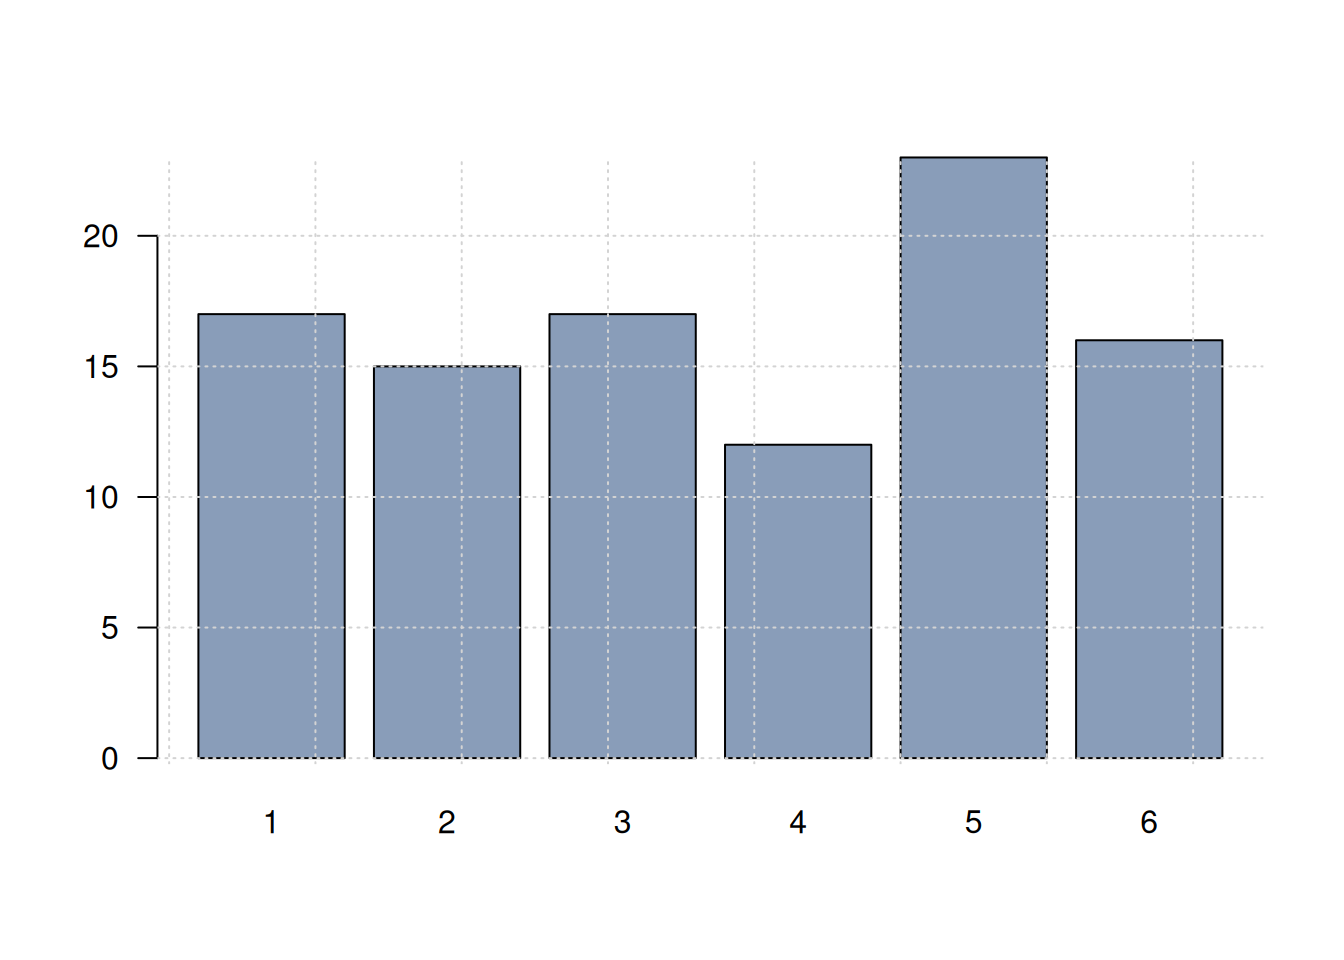
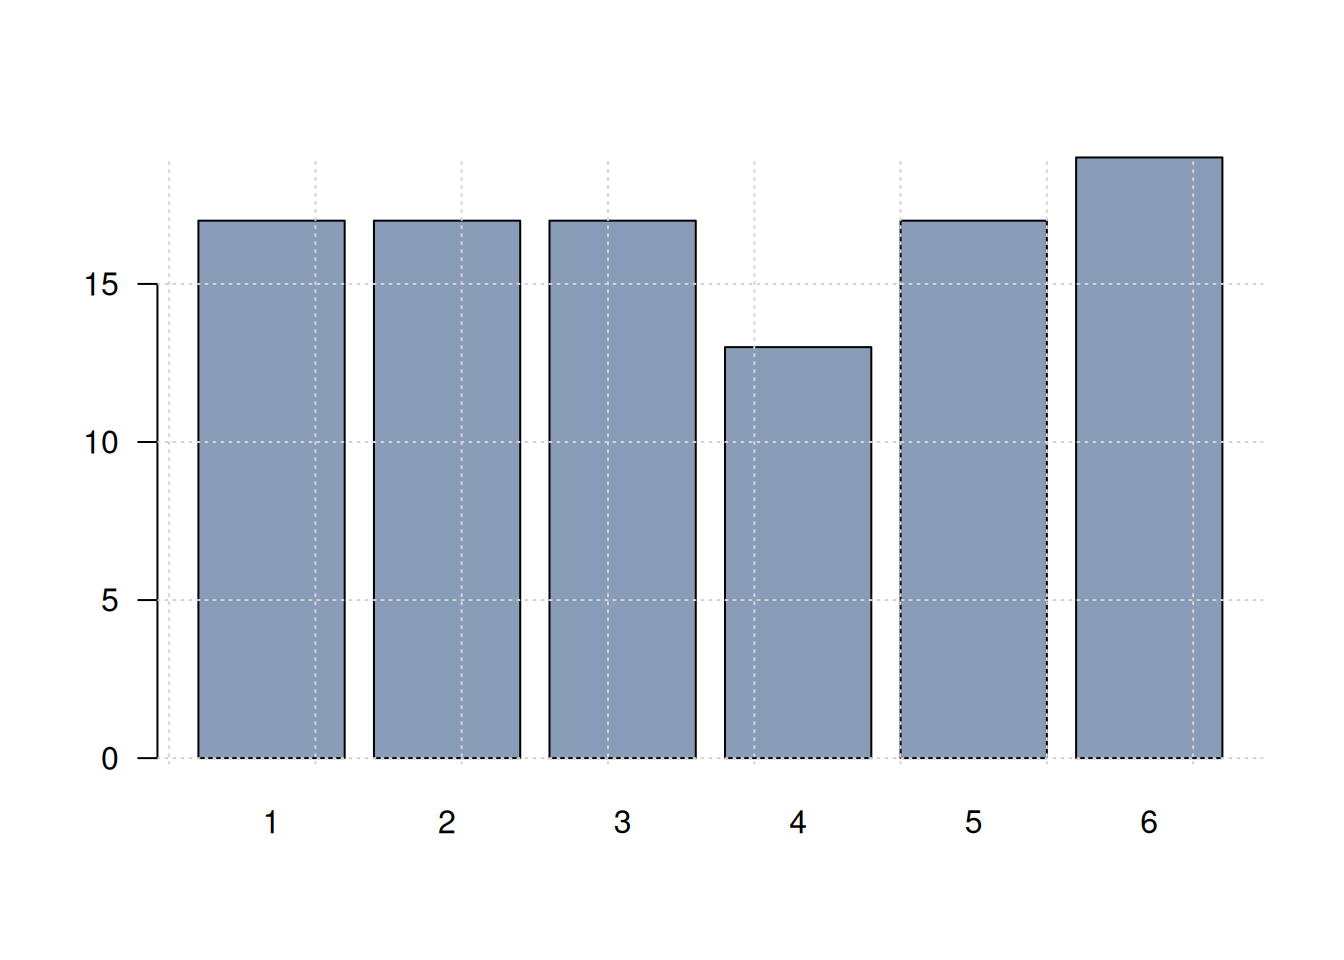
primera version 2

diff --git a/docs/basesdatos.html b/docs/basesdatos.html
@@ -481,8 +481,8 @@ Global Biodiversity Information Facility (GBIF)</a></p></li>
 <pre class="r"><code>data(iris)
 library(DT)
 DT::datatable(head(iris, 150),fillContainer = FALSE, options = list(pageLength = 8))</code></pre>
-<div class="datatables html-widget html-fill-item" id="htmlwidget-0ebfc2710e314a45f2cd" style="width:100%;height:auto;"></div>
-<script type="application/json" data-for="htmlwidget-0ebfc2710e314a45f2cd">{"x":{"filter":"none","vertical":false,"fillContainer":false,"data":[["1","2","3","4","5","6","7","8","9","10","11","12","13","14","15","16","17","18","19","20","21","22","23","24","25","26","27","28","29","30","31","32","33","34","35","36","37","38","39","40","41","42","43","44","45","46","47","48","49","50","51","52","53","54","55","56","57","58","59","60","61","62","63","64","65","66","67","68","69","70","71","72","73","74","75","76","77","78","79","80","81","82","83","84","85","86","87","88","89","90","91","92","93","94","95","96","97","98","99","100","101","102","103","104","105","106","107","108","109","110","111","112","113","114","115","116","117","118","119","120","121","122","123","124","125","126","127","128","129","130","131","132","133","134","135","136","137","138","139","140","141","142","143","144","145","146","147","148","149","150"],[5.1,4.9,4.7,4.6,5,5.4,4.6,5,4.4,4.9,5.4,4.8,4.8,4.3,5.8,5.7,5.4,5.1,5.7,5.1,5.4,5.1,4.6,5.1,4.8,5,5,5.2,5.2,4.7,4.8,5.4,5.2,5.5,4.9,5,5.5,4.9,4.4,5.1,5,4.5,4.4,5,5.1,4.8,5.1,4.6,5.3,5,7,6.4,6.9,5.5,6.5,5.7,6.3,4.9,6.6,5.2,5,5.9,6,6.1,5.6,6.7,5.6,5.8,6.2,5.6,5.9,6.1,6.3,6.1,6.4,6.6,6.8,6.7,6,5.7,5.5,5.5,5.8,6,5.4,6,6.7,6.3,5.6,5.5,5.5,6.1,5.8,5,5.6,5.7,5.7,6.2,5.1,5.7,6.3,5.8,7.1,6.3,6.5,7.6,4.9,7.3,6.7,7.2,6.5,6.4,6.8,5.7,5.8,6.4,6.5,7.7,7.7,6,6.9,5.6,7.7,6.3,6.7,7.2,6.2,6.1,6.4,7.2,7.4,7.9,6.4,6.3,6.1,7.7,6.3,6.4,6,6.9,6.7,6.9,5.8,6.8,6.7,6.7,6.3,6.5,6.2,5.9],[3.5,3,3.2,3.1,3.6,3.9,3.4,3.4,2.9,3.1,3.7,3.4,3,3,4,4.4,3.9,3.5,3.8,3.8,3.4,3.7,3.6,3.3,3.4,3,3.4,3.5,3.4,3.2,3.1,3.4,4.1,4.2,3.1,3.2,3.5,3.6,3,3.4,3.5,2.3,3.2,3.5,3.8,3,3.8,3.2,3.7,3.3,3.2,3.2,3.1,2.3,2.8,2.8,3.3,2.4,2.9,2.7,2,3,2.2,2.9,2.9,3.1,3,2.7,2.2,2.5,3.2,2.8,2.5,2.8,2.9,3,2.8,3,2.9,2.6,2.4,2.4,2.7,2.7,3,3.4,3.1,2.3,3,2.5,2.6,3,2.6,2.3,2.7,3,2.9,2.9,2.5,2.8,3.3,2.7,3,2.9,3,3,2.5,2.9,2.5,3.6,3.2,2.7,3,2.5,2.8,3.2,3,3.8,2.6,2.2,3.2,2.8,2.8,2.7,3.3,3.2,2.8,3,2.8,3,2.8,3.8,2.8,2.8,2.6,3,3.4,3.1,3,3.1,3.1,3.1,2.7,3.2,3.3,3,2.5,3,3.4,3],[1.4,1.4,1.3,1.5,1.4,1.7,1.4,1.5,1.4,1.5,1.5,1.6,1.4,1.1,1.2,1.5,1.3,1.4,1.7,1.5,1.7,1.5,1,1.7,1.9,1.6,1.6,1.5,1.4,1.6,1.6,1.5,1.5,1.4,1.5,1.2,1.3,1.4,1.3,1.5,1.3,1.3,1.3,1.6,1.9,1.4,1.6,1.4,1.5,1.4,4.7,4.5,4.9,4,4.6,4.5,4.7,3.3,4.6,3.9,3.5,4.2,4,4.7,3.6,4.4,4.5,4.1,4.5,3.9,4.8,4,4.9,4.7,4.3,4.4,4.8,5,4.5,3.5,3.8,3.7,3.9,5.1,4.5,4.5,4.7,4.4,4.1,4,4.4,4.6,4,3.3,4.2,4.2,4.2,4.3,3,4.1,6,5.1,5.9,5.6,5.8,6.6,4.5,6.3,5.8,6.1,5.1,5.3,5.5,5,5.1,5.3,5.5,6.7,6.9,5,5.7,4.9,6.7,4.9,5.7,6,4.8,4.9,5.6,5.8,6.1,6.4,5.6,5.1,5.6,6.1,5.6,5.5,4.8,5.4,5.6,5.1,5.1,5.9,5.7,5.2,5,5.2,5.4,5.1],[0.2,0.2,0.2,0.2,0.2,0.4,0.3,0.2,0.2,0.1,0.2,0.2,0.1,0.1,0.2,0.4,0.4,0.3,0.3,0.3,0.2,0.4,0.2,0.5,0.2,0.2,0.4,0.2,0.2,0.2,0.2,0.4,0.1,0.2,0.2,0.2,0.2,0.1,0.2,0.2,0.3,0.3,0.2,0.6,0.4,0.3,0.2,0.2,0.2,0.2,1.4,1.5,1.5,1.3,1.5,1.3,1.6,1,1.3,1.4,1,1.5,1,1.4,1.3,1.4,1.5,1,1.5,1.1,1.8,1.3,1.5,1.2,1.3,1.4,1.4,1.7,1.5,1,1.1,1,1.2,1.6,1.5,1.6,1.5,1.3,1.3,1.3,1.2,1.4,1.2,1,1.3,1.2,1.3,1.3,1.1,1.3,2.5,1.9,2.1,1.8,2.2,2.1,1.7,1.8,1.8,2.5,2,1.9,2.1,2,2.4,2.3,1.8,2.2,2.3,1.5,2.3,2,2,1.8,2.1,1.8,1.8,1.8,2.1,1.6,1.9,2,2.2,1.5,1.4,2.3,2.4,1.8,1.8,2.1,2.4,2.3,1.9,2.3,2.5,2.3,1.9,2,2.3,1.8],["setosa","setosa","setosa","setosa","setosa","setosa","setosa","setosa","setosa","setosa","setosa","setosa","setosa","setosa","setosa","setosa","setosa","setosa","setosa","setosa","setosa","setosa","setosa","setosa","setosa","setosa","setosa","setosa","setosa","setosa","setosa","setosa","setosa","setosa","setosa","setosa","setosa","setosa","setosa","setosa","setosa","setosa","setosa","setosa","setosa","setosa","setosa","setosa","setosa","setosa","versicolor","versicolor","versicolor","versicolor","versicolor","versicolor","versicolor","versicolor","versicolor","versicolor","versicolor","versicolor","versicolor","versicolor","versicolor","versicolor","versicolor","versicolor","versicolor","versicolor","versicolor","versicolor","versicolor","versicolor","versicolor","versicolor","versicolor","versicolor","versicolor","versicolor","versicolor","versicolor","versicolor","versicolor","versicolor","versicolor","versicolor","versicolor","versicolor","versicolor","versicolor","versicolor","versicolor","versicolor","versicolor","versicolor","versicolor","versicolor","versicolor","versicolor","virginica","virginica","virginica","virginica","virginica","virginica","virginica","virginica","virginica","virginica","virginica","virginica","virginica","virginica","virginica","virginica","virginica","virginica","virginica","virginica","virginica","virginica","virginica","virginica","virginica","virginica","virginica","virginica","virginica","virginica","virginica","virginica","virginica","virginica","virginica","virginica","virginica","virginica","virginica","virginica","virginica","virginica","virginica","virginica","virginica","virginica","virginica","virginica","virginica","virginica"]],"container":"<table class=\"display\">\n  <thead>\n    <tr>\n      <th> <\/th>\n      <th>Sepal.Length<\/th>\n      <th>Sepal.Width<\/th>\n      <th>Petal.Length<\/th>\n      <th>Petal.Width<\/th>\n      <th>Species<\/th>\n    <\/tr>\n  <\/thead>\n<\/table>","options":{"pageLength":8,"columnDefs":[{"className":"dt-right","targets":[1,2,3,4]},{"orderable":false,"targets":0},{"name":" ","targets":0},{"name":"Sepal.Length","targets":1},{"name":"Sepal.Width","targets":2},{"name":"Petal.Length","targets":3},{"name":"Petal.Width","targets":4},{"name":"Species","targets":5}],"order":[],"autoWidth":false,"orderClasses":false,"lengthMenu":[8,10,25,50,100]}},"evals":[],"jsHooks":[]}</script>
+<div class="datatables html-widget html-fill-item" id="htmlwidget-d6ad9c677977e4fc373c" style="width:100%;height:auto;"></div>
+<script type="application/json" data-for="htmlwidget-d6ad9c677977e4fc373c">{"x":{"filter":"none","vertical":false,"fillContainer":false,"data":[["1","2","3","4","5","6","7","8","9","10","11","12","13","14","15","16","17","18","19","20","21","22","23","24","25","26","27","28","29","30","31","32","33","34","35","36","37","38","39","40","41","42","43","44","45","46","47","48","49","50","51","52","53","54","55","56","57","58","59","60","61","62","63","64","65","66","67","68","69","70","71","72","73","74","75","76","77","78","79","80","81","82","83","84","85","86","87","88","89","90","91","92","93","94","95","96","97","98","99","100","101","102","103","104","105","106","107","108","109","110","111","112","113","114","115","116","117","118","119","120","121","122","123","124","125","126","127","128","129","130","131","132","133","134","135","136","137","138","139","140","141","142","143","144","145","146","147","148","149","150"],[5.1,4.9,4.7,4.6,5,5.4,4.6,5,4.4,4.9,5.4,4.8,4.8,4.3,5.8,5.7,5.4,5.1,5.7,5.1,5.4,5.1,4.6,5.1,4.8,5,5,5.2,5.2,4.7,4.8,5.4,5.2,5.5,4.9,5,5.5,4.9,4.4,5.1,5,4.5,4.4,5,5.1,4.8,5.1,4.6,5.3,5,7,6.4,6.9,5.5,6.5,5.7,6.3,4.9,6.6,5.2,5,5.9,6,6.1,5.6,6.7,5.6,5.8,6.2,5.6,5.9,6.1,6.3,6.1,6.4,6.6,6.8,6.7,6,5.7,5.5,5.5,5.8,6,5.4,6,6.7,6.3,5.6,5.5,5.5,6.1,5.8,5,5.6,5.7,5.7,6.2,5.1,5.7,6.3,5.8,7.1,6.3,6.5,7.6,4.9,7.3,6.7,7.2,6.5,6.4,6.8,5.7,5.8,6.4,6.5,7.7,7.7,6,6.9,5.6,7.7,6.3,6.7,7.2,6.2,6.1,6.4,7.2,7.4,7.9,6.4,6.3,6.1,7.7,6.3,6.4,6,6.9,6.7,6.9,5.8,6.8,6.7,6.7,6.3,6.5,6.2,5.9],[3.5,3,3.2,3.1,3.6,3.9,3.4,3.4,2.9,3.1,3.7,3.4,3,3,4,4.4,3.9,3.5,3.8,3.8,3.4,3.7,3.6,3.3,3.4,3,3.4,3.5,3.4,3.2,3.1,3.4,4.1,4.2,3.1,3.2,3.5,3.6,3,3.4,3.5,2.3,3.2,3.5,3.8,3,3.8,3.2,3.7,3.3,3.2,3.2,3.1,2.3,2.8,2.8,3.3,2.4,2.9,2.7,2,3,2.2,2.9,2.9,3.1,3,2.7,2.2,2.5,3.2,2.8,2.5,2.8,2.9,3,2.8,3,2.9,2.6,2.4,2.4,2.7,2.7,3,3.4,3.1,2.3,3,2.5,2.6,3,2.6,2.3,2.7,3,2.9,2.9,2.5,2.8,3.3,2.7,3,2.9,3,3,2.5,2.9,2.5,3.6,3.2,2.7,3,2.5,2.8,3.2,3,3.8,2.6,2.2,3.2,2.8,2.8,2.7,3.3,3.2,2.8,3,2.8,3,2.8,3.8,2.8,2.8,2.6,3,3.4,3.1,3,3.1,3.1,3.1,2.7,3.2,3.3,3,2.5,3,3.4,3],[1.4,1.4,1.3,1.5,1.4,1.7,1.4,1.5,1.4,1.5,1.5,1.6,1.4,1.1,1.2,1.5,1.3,1.4,1.7,1.5,1.7,1.5,1,1.7,1.9,1.6,1.6,1.5,1.4,1.6,1.6,1.5,1.5,1.4,1.5,1.2,1.3,1.4,1.3,1.5,1.3,1.3,1.3,1.6,1.9,1.4,1.6,1.4,1.5,1.4,4.7,4.5,4.9,4,4.6,4.5,4.7,3.3,4.6,3.9,3.5,4.2,4,4.7,3.6,4.4,4.5,4.1,4.5,3.9,4.8,4,4.9,4.7,4.3,4.4,4.8,5,4.5,3.5,3.8,3.7,3.9,5.1,4.5,4.5,4.7,4.4,4.1,4,4.4,4.6,4,3.3,4.2,4.2,4.2,4.3,3,4.1,6,5.1,5.9,5.6,5.8,6.6,4.5,6.3,5.8,6.1,5.1,5.3,5.5,5,5.1,5.3,5.5,6.7,6.9,5,5.7,4.9,6.7,4.9,5.7,6,4.8,4.9,5.6,5.8,6.1,6.4,5.6,5.1,5.6,6.1,5.6,5.5,4.8,5.4,5.6,5.1,5.1,5.9,5.7,5.2,5,5.2,5.4,5.1],[0.2,0.2,0.2,0.2,0.2,0.4,0.3,0.2,0.2,0.1,0.2,0.2,0.1,0.1,0.2,0.4,0.4,0.3,0.3,0.3,0.2,0.4,0.2,0.5,0.2,0.2,0.4,0.2,0.2,0.2,0.2,0.4,0.1,0.2,0.2,0.2,0.2,0.1,0.2,0.2,0.3,0.3,0.2,0.6,0.4,0.3,0.2,0.2,0.2,0.2,1.4,1.5,1.5,1.3,1.5,1.3,1.6,1,1.3,1.4,1,1.5,1,1.4,1.3,1.4,1.5,1,1.5,1.1,1.8,1.3,1.5,1.2,1.3,1.4,1.4,1.7,1.5,1,1.1,1,1.2,1.6,1.5,1.6,1.5,1.3,1.3,1.3,1.2,1.4,1.2,1,1.3,1.2,1.3,1.3,1.1,1.3,2.5,1.9,2.1,1.8,2.2,2.1,1.7,1.8,1.8,2.5,2,1.9,2.1,2,2.4,2.3,1.8,2.2,2.3,1.5,2.3,2,2,1.8,2.1,1.8,1.8,1.8,2.1,1.6,1.9,2,2.2,1.5,1.4,2.3,2.4,1.8,1.8,2.1,2.4,2.3,1.9,2.3,2.5,2.3,1.9,2,2.3,1.8],["setosa","setosa","setosa","setosa","setosa","setosa","setosa","setosa","setosa","setosa","setosa","setosa","setosa","setosa","setosa","setosa","setosa","setosa","setosa","setosa","setosa","setosa","setosa","setosa","setosa","setosa","setosa","setosa","setosa","setosa","setosa","setosa","setosa","setosa","setosa","setosa","setosa","setosa","setosa","setosa","setosa","setosa","setosa","setosa","setosa","setosa","setosa","setosa","setosa","setosa","versicolor","versicolor","versicolor","versicolor","versicolor","versicolor","versicolor","versicolor","versicolor","versicolor","versicolor","versicolor","versicolor","versicolor","versicolor","versicolor","versicolor","versicolor","versicolor","versicolor","versicolor","versicolor","versicolor","versicolor","versicolor","versicolor","versicolor","versicolor","versicolor","versicolor","versicolor","versicolor","versicolor","versicolor","versicolor","versicolor","versicolor","versicolor","versicolor","versicolor","versicolor","versicolor","versicolor","versicolor","versicolor","versicolor","versicolor","versicolor","versicolor","versicolor","virginica","virginica","virginica","virginica","virginica","virginica","virginica","virginica","virginica","virginica","virginica","virginica","virginica","virginica","virginica","virginica","virginica","virginica","virginica","virginica","virginica","virginica","virginica","virginica","virginica","virginica","virginica","virginica","virginica","virginica","virginica","virginica","virginica","virginica","virginica","virginica","virginica","virginica","virginica","virginica","virginica","virginica","virginica","virginica","virginica","virginica","virginica","virginica","virginica","virginica"]],"container":"<table class=\"display\">\n  <thead>\n    <tr>\n      <th> <\/th>\n      <th>Sepal.Length<\/th>\n      <th>Sepal.Width<\/th>\n      <th>Petal.Length<\/th>\n      <th>Petal.Width<\/th>\n      <th>Species<\/th>\n    <\/tr>\n  <\/thead>\n<\/table>","options":{"pageLength":8,"columnDefs":[{"className":"dt-right","targets":[1,2,3,4]},{"orderable":false,"targets":0},{"name":" ","targets":0},{"name":"Sepal.Length","targets":1},{"name":"Sepal.Width","targets":2},{"name":"Petal.Length","targets":3},{"name":"Petal.Width","targets":4},{"name":"Species","targets":5}],"order":[],"autoWidth":false,"orderClasses":false,"lengthMenu":[8,10,25,50,100]}},"evals":[],"jsHooks":[]}</script>
 <p><br/><br/></p>
 </div>
 <div id="etapas-del-proceso-de-datos" class="section level1">

diff --git a/docs/style.css b/docs/style.css
@@ -13,25 +13,6 @@ h6,
 }
 
 
-/* Recorta el espacio vacío incorporado en la imagen de módulos */
-.image-crop-modulos {
-  width: 70%;
-  aspect-ratio: 2555 / 665;
-  overflow: hidden;
-  margin: 0 auto 0.75rem;
-}
-
-.image-crop-modulos p {
-  margin: 0;
-}
-
-.image-crop-modulos img {
-  display: block;
-  width: 100%;
-  height: auto;
-  margin: 0 !important;
-}
-
 /* Ritmo vertical global */
 body {
   line-height: 1.65;
@@ -114,8 +95,20 @@ h6 { margin-top: 0.7rem; }
 
 /* Las imágenes conservan su proporción y no desbordan el contenido */
 .main-container img {
-  max-width: 100%;
-  height: auto;
+  display: block;
+  max-width: 100% !important;
+  height: auto !important;
+  max-height: none !important;
+  object-fit: contain !important;
+  object-position: center;
+  clip-path: none !important;
+}
+
+.main-container .figure,
+.main-container p:has(> img) {
+  height: auto !important;
+  max-height: none !important;
+  overflow: visible !important;
 }
 
 /* Tablas, gráficos y bloques de código */

diff --git a/style.css b/style.css
@@ -13,25 +13,6 @@ h6,
 }
 
 
-/* Recorta el espacio vacío incorporado en la imagen de módulos */
-.image-crop-modulos {
-  width: 70%;
-  aspect-ratio: 2555 / 665;
-  overflow: hidden;
-  margin: 0 auto 0.75rem;
-}
-
-.image-crop-modulos p {
-  margin: 0;
-}
-
-.image-crop-modulos img {
-  display: block;
-  width: 100%;
-  height: auto;
-  margin: 0 !important;
-}
-
 /* Ritmo vertical global */
 body {
   line-height: 1.65;
@@ -114,8 +95,20 @@ h6 { margin-top: 0.7rem; }
 
 /* Las imágenes conservan su proporción y no desbordan el contenido */
 .main-container img {
-  max-width: 100%;
-  height: auto;
+  display: block;
+  max-width: 100% !important;
+  height: auto !important;
+  max-height: none !important;
+  object-fit: contain !important;
+  object-position: center;
+  clip-path: none !important;
+}
+
+.main-container .figure,
+.main-container p:has(> img) {
+  height: auto !important;
+  max-height: none !important;
+  overflow: visible !important;
 }
 
 /* Tablas, gráficos y bloques de código */

diff --git a/docs/index.html b/docs/index.html
@@ -380,9 +380,7 @@ $(document).ready(function () {
 <p><br/><br/></p>
 <div id="módulos" class="section level2">
 <h2>Módulos</h2>
-<div class="image-crop-modulos">
-<p><img src="img/modulos.png" alt="" width="100%" style="display: block; margin: auto;" /></p>
-</div>
+<p><img src="img/modulos.png" alt="" width="70%" style="display: block; margin: auto;" /></p>
 <p><br/><br/></p>
 </div>
 <div id="cronograma" class="section level2">
